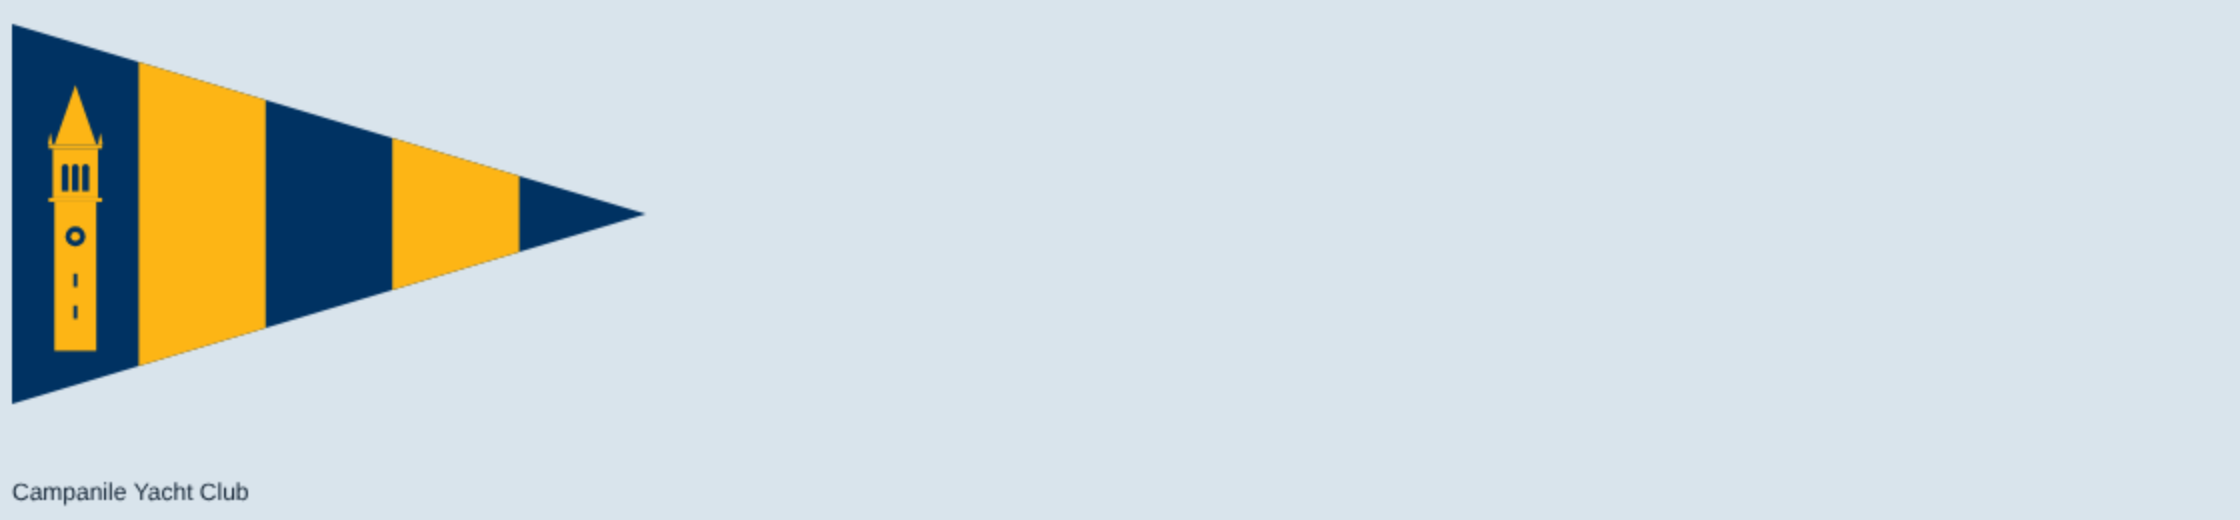
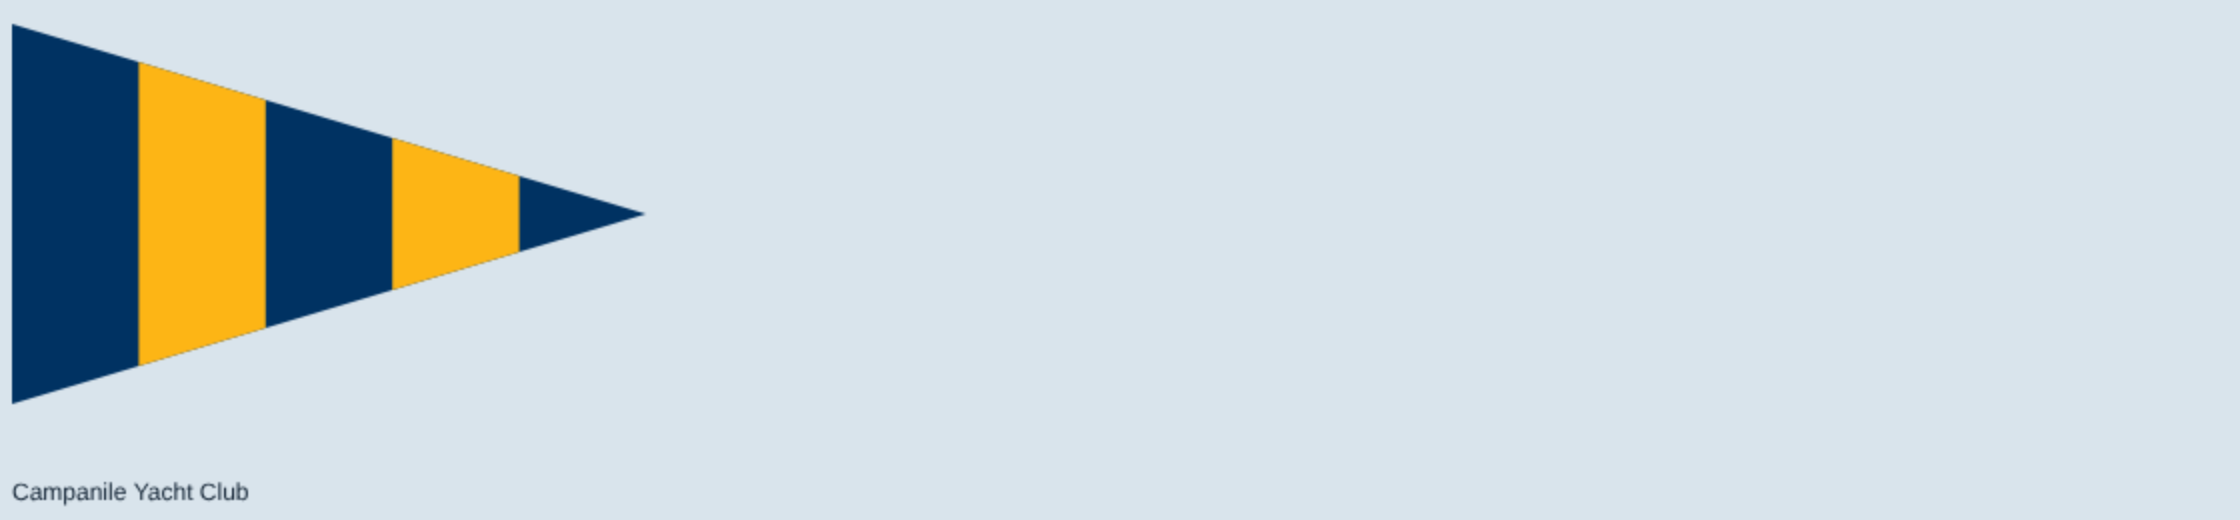
Burgees: Campanile YC is the plain five stripes, no tower
Claude-Session: https://claude.ai/code/session_012Uu5QjYRsEpBxuz7xgHWhs

Changed region(s): [[0.0, 0.1846, 0.0625, 0.6769]]

diff --git a/src/render/burgeeArt.ts b/src/render/burgeeArt.ts
@@ -89,18 +89,8 @@ export const PARODY_BURGEES: Burgee[] = [
   // ---- East Bay
   { id: 'ryc', shape: 'pennant', ratio: 1.5, // DIY: brick red, black and white; one kiln chimney
     draw: (g, W, H) => { fill(g, W, H, '#b03a2a'); rect(g, WHITE, W * 0.5, 0, W * 0.14, H); rect(g, BLACK, W * 0.11, H * 0.34, W * 0.1, H * 0.34); poly(g, BLACK, [W * 0.09, H * 0.34], [W * 0.23, H * 0.34], [W * 0.21, H * 0.27], [W * 0.11, H * 0.27]); } },
-  { id: 'byc', shape: 'pennant', ratio: 1.667, // Campanile YC (Berkeley, 1929), on the owner's template: five equal stripes to the point, Berkeley blue and California gold; one gold campanile (a plain tall shaft, a clock, a belfry of three arches, a steep spire) on the hoist stripe
-    draw: (g, W, H) => { const BLU = '#003262', GLD = '#fdb515', X = W * 0.1, w = H * 0.11, yb = H * 0.86, Th = H * 0.7, y = (t: number) => yb - t * Th;
-      fill(g, W, H, BLU); rect(g, GLD, W * 0.2, 0, W * 0.2, H); rect(g, GLD, W * 0.6, 0, W * 0.2, H);
-      rect(g, GLD, X - w / 2, y(0.56), w, y(0) - y(0.56)); // the plain shaft
-      for (const t of [0.12, 0.24]) rect(g, BLU, X - H * 0.005, y(t + 0.05), H * 0.01, y(t) - y(t + 0.05)); // two narrow windows
-      dot(g, BLU, X, y(0.43), H * 0.026); dot(g, GLD, X, y(0.43), H * 0.012); // the clock
-      rect(g, GLD, X - w * 0.64, y(0.575), w * 1.28, y(0.56) - y(0.575)); // the cornice under the belfry
-      rect(g, GLD, X - w * 0.54, y(0.76), w * 1.08, y(0.575) - y(0.76)); // the belfry
-      for (const a of [-1, 0, 1]) { const ax = X + a * H * 0.027; rect(g, BLU, ax - H * 0.009, y(0.69), H * 0.018, y(0.6) - y(0.69)); dot(g, BLU, ax, y(0.69), H * 0.009); } // its three tall arches
-      rect(g, GLD, X - w * 0.64, y(0.775), w * 1.28, y(0.76) - y(0.775)); // the cornice above it
-      for (const s of [-1, 1]) poly(g, GLD, [X + s * w * 0.6 - H * 0.006, y(0.775)], [X + s * w * 0.6, y(0.82)], [X + s * w * 0.6 + H * 0.006, y(0.775)]); // the corner pinnacles
-      poly(g, GLD, [X - w * 0.5, y(0.775)], [X, y(1)], [X + w * 0.5, y(0.775)]); } }, // the steep spire
+  { id: 'byc', shape: 'pennant', ratio: 1.667, // Campanile YC (Berkeley, 1929), on the owner's template: five equal stripes to the point, Berkeley blue and California gold; no charge (the name does the work)
+    draw: (g, W, H) => { fill(g, W, H, '#003262'); rect(g, '#fdb515', W * 0.2, 0, W * 0.2, H); rect(g, '#fdb515', W * 0.6, 0, W * 0.2, H); } },
   { id: 'csc', shape: 'pennant', ratio: 1.5, // modern co-op: bright green and yellow, one rising sun
     draw: (g, W, H) => { fill(g, W, H, '#2fa04a'); rect(g, '#f6d21a', 0, H * 0.7, W, H * 0.3); dot(g, '#f6d21a', W * 0.2, H * 0.46, H * 0.2); } },
   { id: 'emyc', shape: 'pennant', ratio: 1.5, // small and informal: sky, reed green, mud; a tide line
